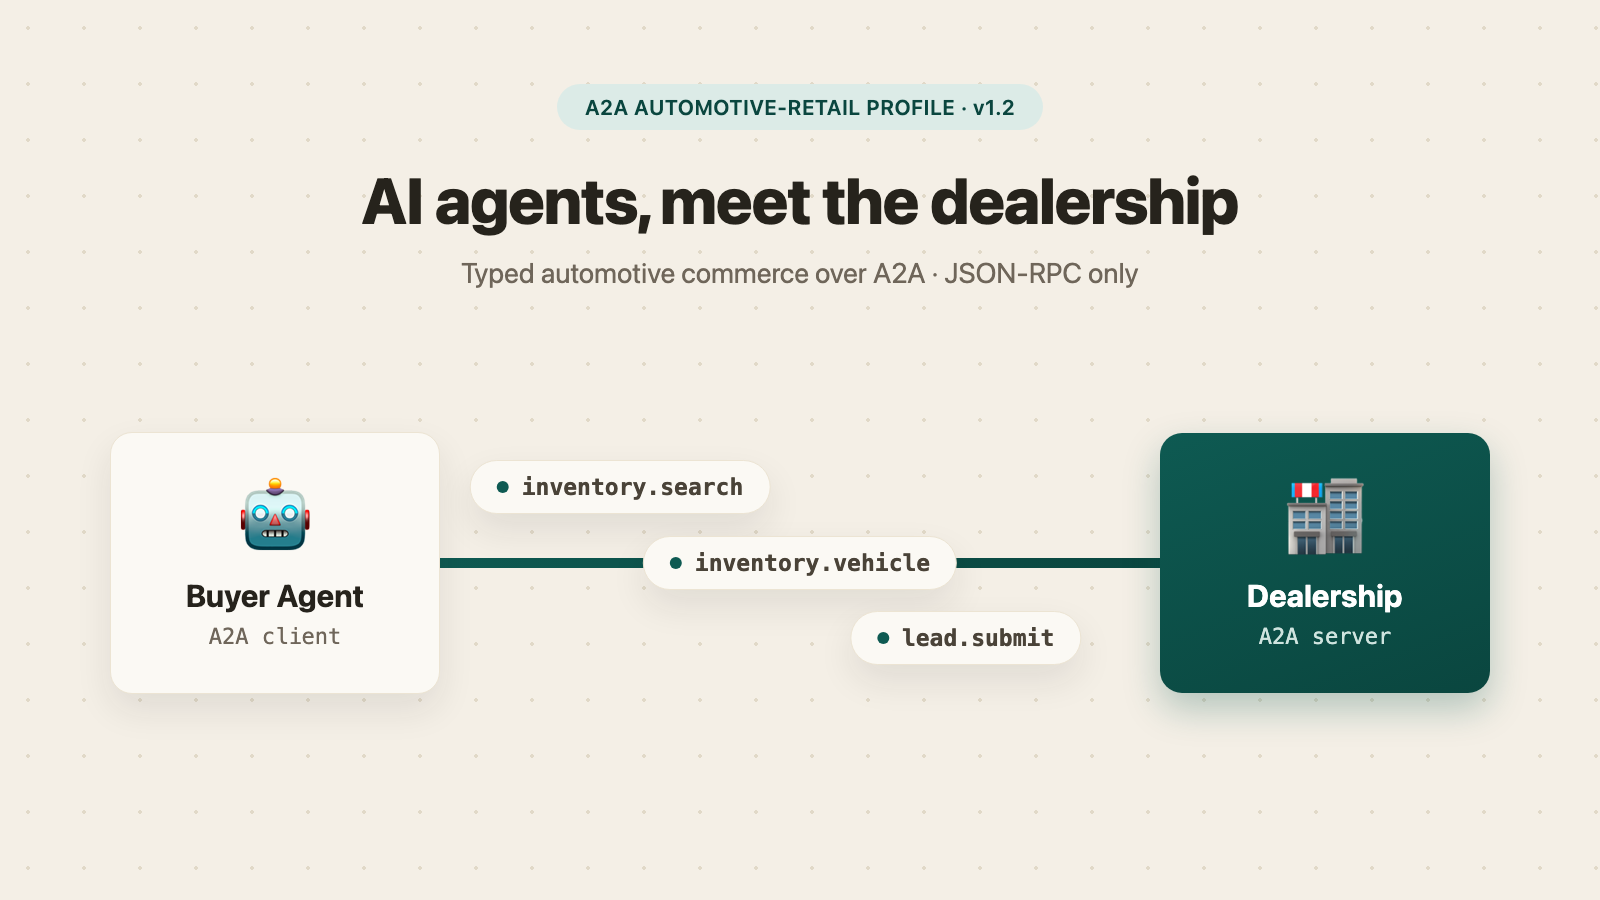
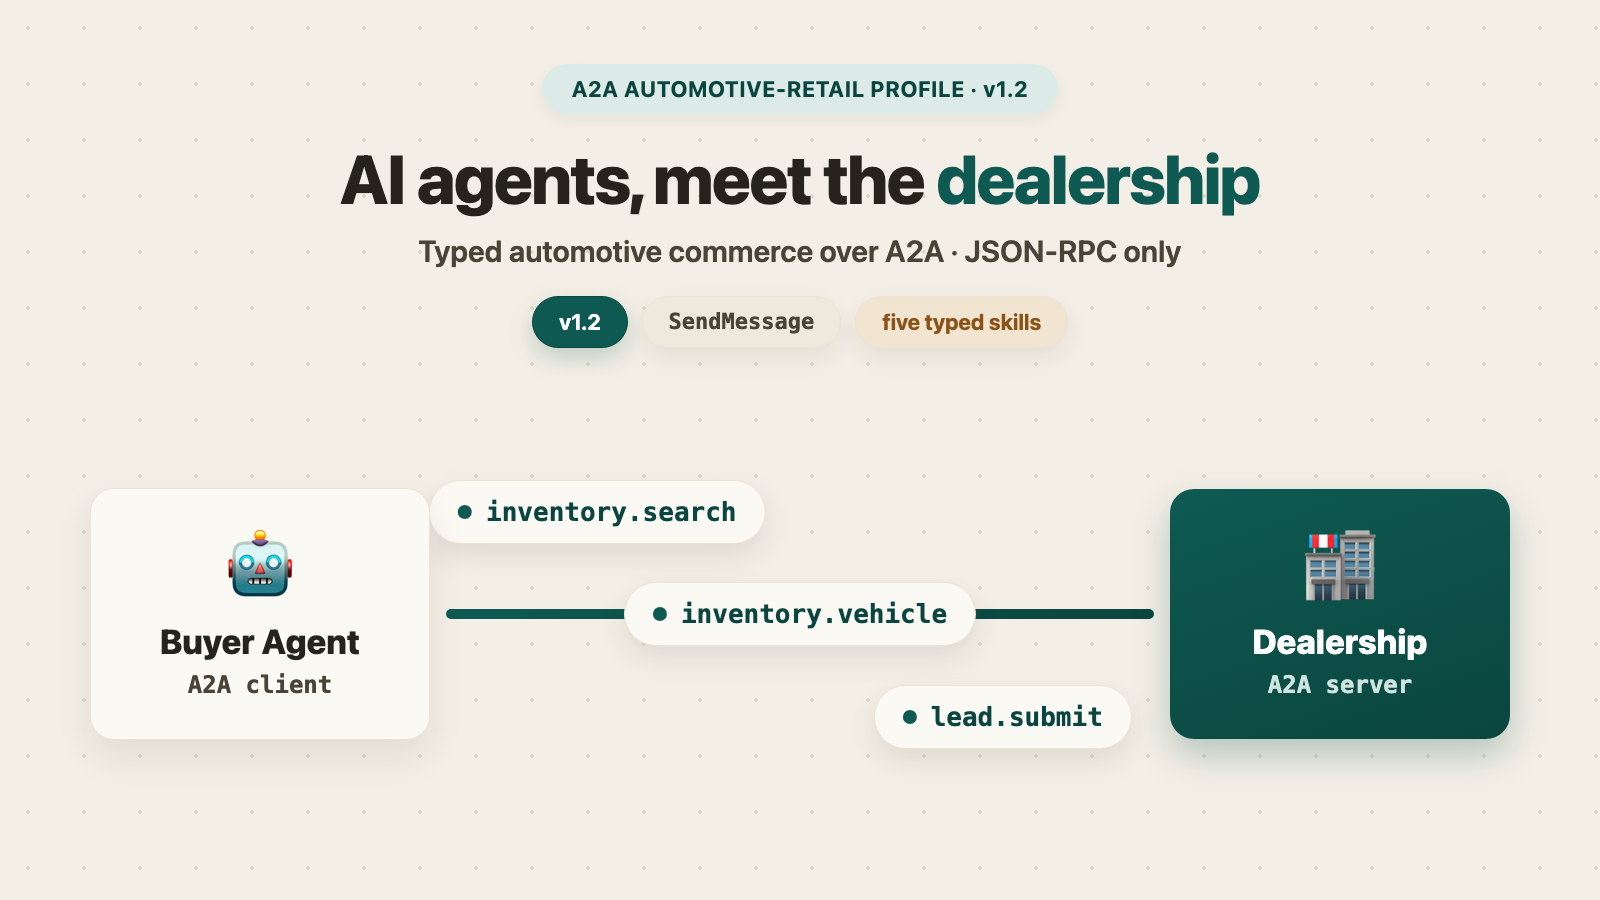
chore(site): polish v1.2 hero diagram hierarchy and chip spacing

diff --git a/tools/img-src/hero.html b/tools/img-src/hero.html
@@ -5,7 +5,7 @@
 <meta charset="utf-8">
 <style>
   * { margin: 0; padding: 0; box-sizing: border-box; }
-  html, body { width: 1600px; height: 900px; }
+  html, body { width: 1600px; height: 900px; overflow: hidden; }
   body {
     font-family: -apple-system, BlinkMacSystemFont, "Segoe UI", Roboto, Helvetica, Arial, sans-serif;
     background-color: #f4efe6;
@@ -15,65 +15,120 @@
     display: flex;
     flex-direction: column;
     align-items: center;
-    overflow: hidden;
   }
   .tag {
-    margin-top: 84px;
+    margin-top: 64px;
     background: #dcebe7;
     color: #0a463f;
-    font-weight: 600;
-    font-size: 21px;
-    padding: 11px 28px;
+    font-weight: 700;
+    font-size: 22px;
+    padding: 12px 30px;
     border-radius: 999px;
     letter-spacing: .04em;
+    box-shadow: 0 6px 16px rgba(38,35,28,.06);
   }
   h1 {
-    margin-top: 32px;
-    font-size: 64px;
+    margin-top: 28px;
+    font-size: 68px;
     font-weight: 800;
-    letter-spacing: -1px;
+    letter-spacing: -1.4px;
+    line-height: 1.08;
     color: #26231c;
+    text-align: center;
   }
+  h1 .accent { color: #0e5a52; }
   .sub {
     margin-top: 18px;
-    font-size: 28px;
-    color: #6f665a;
+    font-size: 30px;
+    color: #4a4338;
+    font-weight: 600;
   }
+  .pills {
+    margin-top: 28px;
+    display: flex;
+    gap: 14px;
+  }
+  .pill {
+    border-radius: 999px;
+    padding: 12px 26px;
+    font-size: 22px;
+    font-weight: 700;
+    background: #fbf9f4;
+    color: #0a463f;
+    border: 1px solid #ece4d3;
+    box-shadow: 0 10px 24px rgba(38,35,28,.08);
+    white-space: nowrap;
+  }
+  .pill.teal {
+    background: #0e5a52;
+    color: #fff;
+    border-color: #0a463f;
+    box-shadow: 0 10px 24px rgba(14,90,82,.22);
+  }
+  .pill.mono {
+    font-family: ui-monospace, SFMono-Regular, Menlo, monospace;
+    background: #efe9dd;
+    color: #4a4338;
+  }
+  .pill.bronze {
+    background: #f1e4d0;
+    color: #8a5418;
+  }
+
   .diagram {
     flex: 1;
     width: 100%;
     display: flex;
     align-items: center;
-    padding: 0 110px 64px;
+    padding: 36px 90px 56px;
+    gap: 0;
   }
   .card {
     position: relative;
     z-index: 2;
-    width: 330px;
-    border-radius: 22px;
-    padding: 44px 20px;
+    width: 340px;
+    flex: none;
+    border-radius: 24px;
+    padding: 40px 22px;
     text-align: center;
   }
-  .card.white { background: #fbf9f4; box-shadow: 0 16px 36px rgba(38,35,28,.09); border: 1px solid #ece4d3; }
+  .card.white {
+    background: #fbf9f4;
+    box-shadow: 0 16px 36px rgba(38,35,28,.09);
+    border: 1px solid #ece4d3;
+  }
   .card.teal {
     background: linear-gradient(160deg, #0e5a52, #0a463f);
     color: #fff;
     box-shadow: 0 16px 36px rgba(14,90,82,.28);
   }
-  .emoji { font-size: 78px; line-height: 1; }
-  .card .name { margin-top: 22px; font-size: 31px; font-weight: 700; }
+  .emoji { font-size: 72px; line-height: 1; }
+  .card .name {
+    margin-top: 20px;
+    font-size: 34px;
+    font-weight: 800;
+  }
   .card .role {
     margin-top: 10px;
-    font-size: 22px;
-    color: #6f665a;
+    font-size: 24px;
+    font-weight: 600;
+    color: #4a4338;
     font-family: ui-monospace, SFMono-Regular, Menlo, monospace;
   }
   .card.teal .role { color: #cfe4df; }
-  .link { flex: 1; position: relative; height: 270px; z-index: 1; }
+
+  /* Clear middle band — chips stay inside and never overlap cards */
+  .link {
+    flex: 1;
+    position: relative;
+    height: 320px;
+    z-index: 1;
+    margin: 0 8px;
+  }
   .line {
     position: absolute;
-    left: -28px;
-    right: -28px;
+    left: 8px;
+    right: 8px;
     top: 50%;
     height: 10px;
     transform: translateY(-50%);
@@ -85,29 +140,41 @@
     transform: translate(-50%, -50%);
     display: flex;
     align-items: center;
-    gap: 13px;
+    gap: 14px;
     background: #fbf9f4;
     border: 1px solid #ece4d3;
     border-radius: 999px;
-    padding: 13px 26px;
+    padding: 16px 28px;
     font-family: ui-monospace, SFMono-Regular, Menlo, monospace;
-    font-size: 23px;
-    font-weight: 600;
-    color: #4a4338;
-    box-shadow: 0 16px 36px rgba(38,35,28,.09);
+    font-size: 26px;
+    font-weight: 700;
+    color: #0a463f;
+    box-shadow: 0 12px 28px rgba(38,35,28,.1);
     white-space: nowrap;
     z-index: 3;
   }
-  .msg .dot { width: 12px; height: 12px; border-radius: 50%; background: #0e5a52; flex: none; }
-  .m1 { left: 25%; top: 22%; }
+  .msg .dot {
+    width: 14px;
+    height: 14px;
+    border-radius: 50%;
+    background: #0e5a52;
+    flex: none;
+  }
+  /* Spaced within the link band only — clear of both cards */
+  .m1 { left: 22%; top: 18%; }
   .m2 { left: 50%; top: 50%; }
-  .m3 { left: 73%; top: 78%; }
+  .m3 { left: 78%; top: 82%; }
 </style>
 </head>
 <body>
   <div class="tag">A2A AUTOMOTIVE-RETAIL PROFILE &middot; v1.2</div>
-  <h1>AI agents, meet the dealership</h1>
+  <h1>AI agents, meet the <span class="accent">dealership</span></h1>
   <div class="sub">Typed automotive commerce over A2A &middot; JSON-RPC only</div>
+  <div class="pills">
+    <div class="pill teal">v1.2</div>
+    <div class="pill mono">SendMessage</div>
+    <div class="pill bronze">five typed skills</div>
+  </div>
 
   <div class="diagram">
     <div class="card white">
